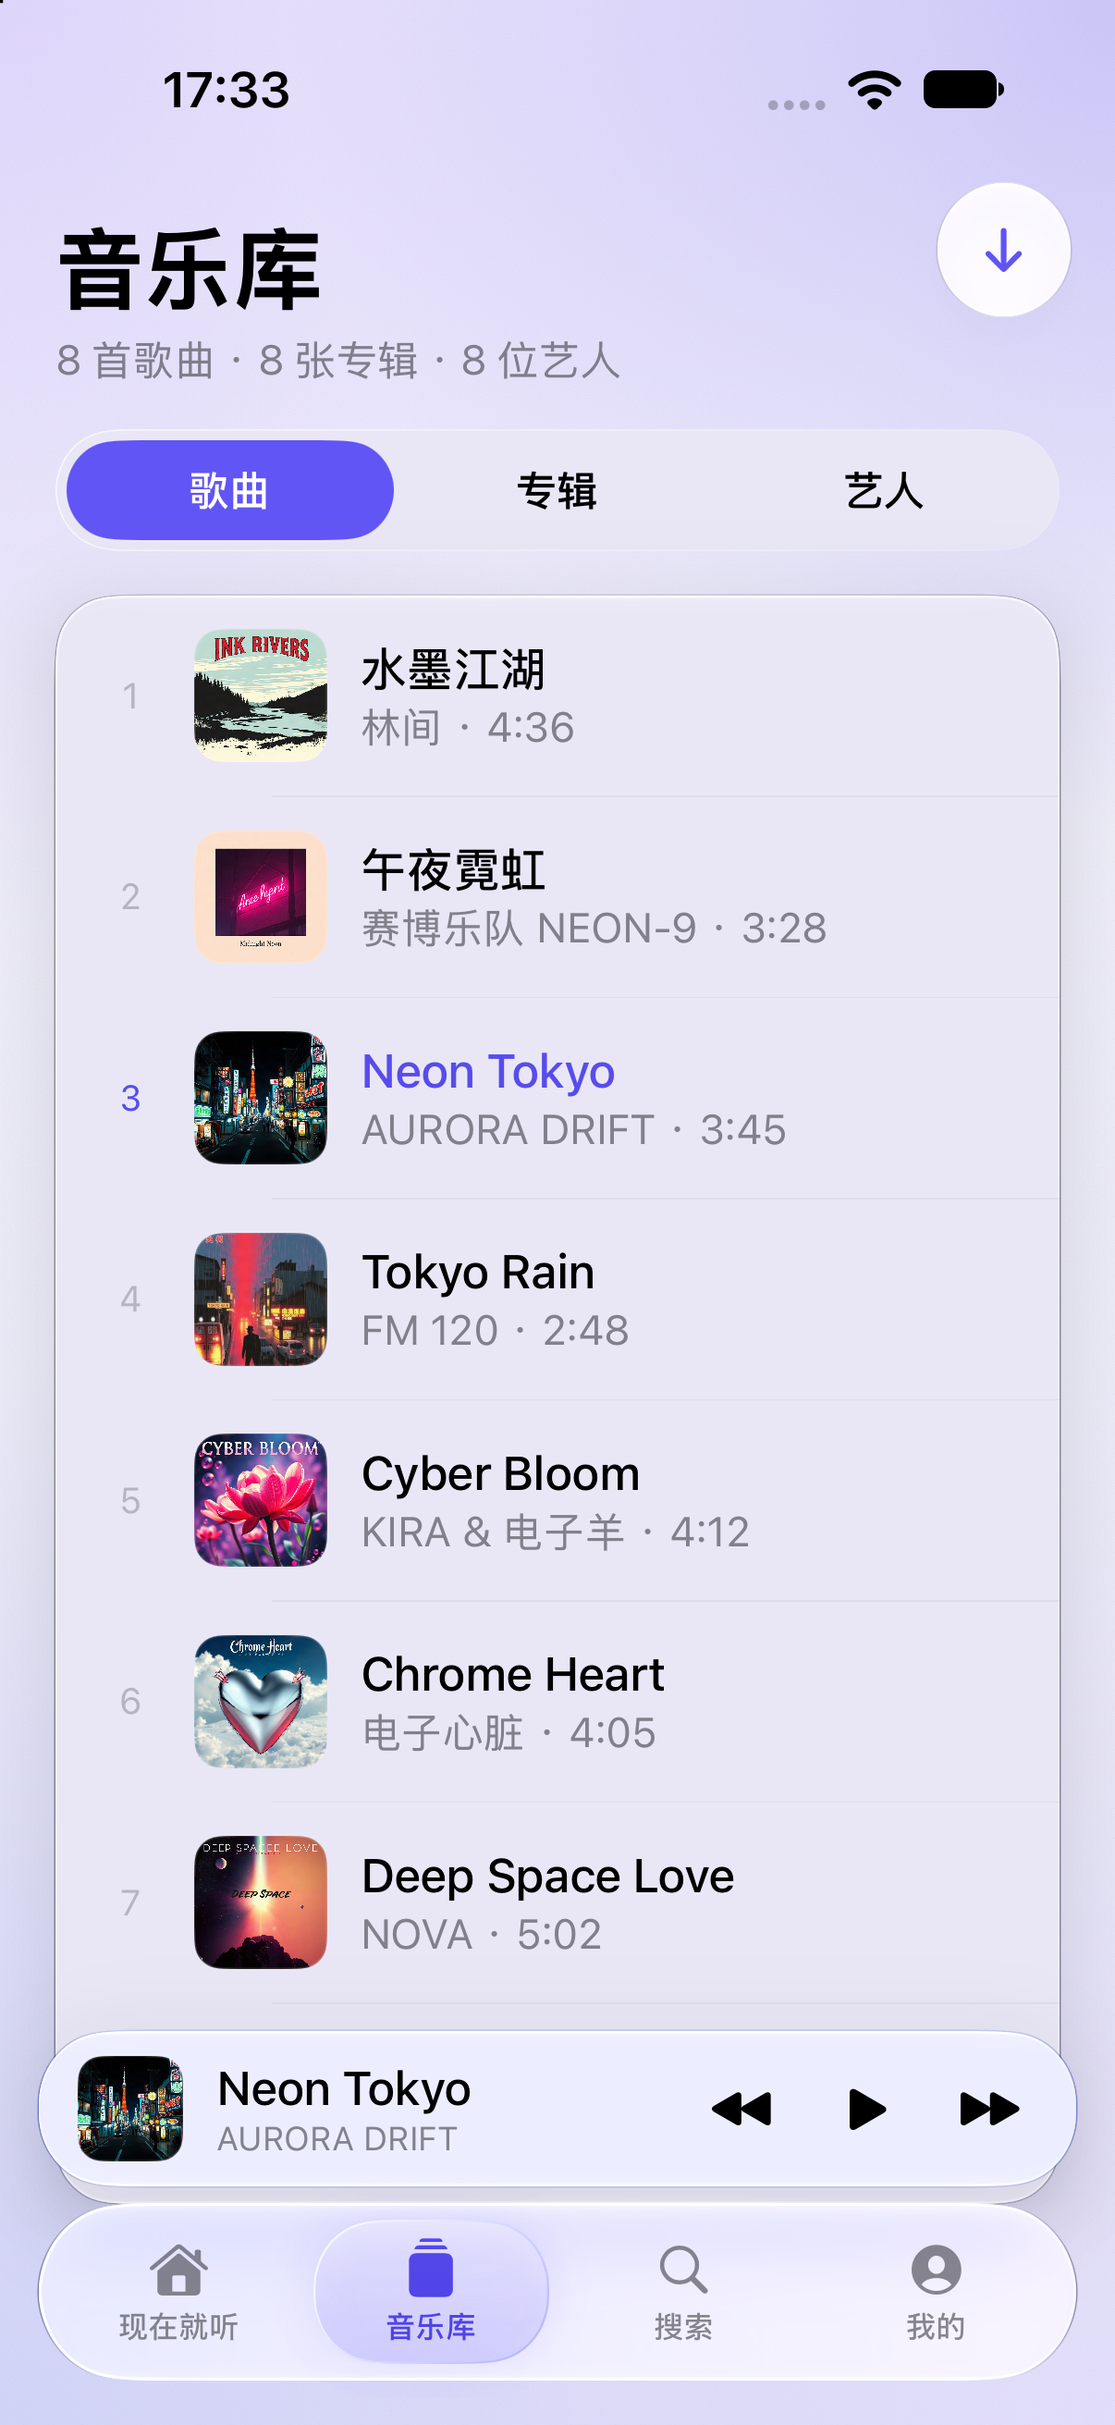
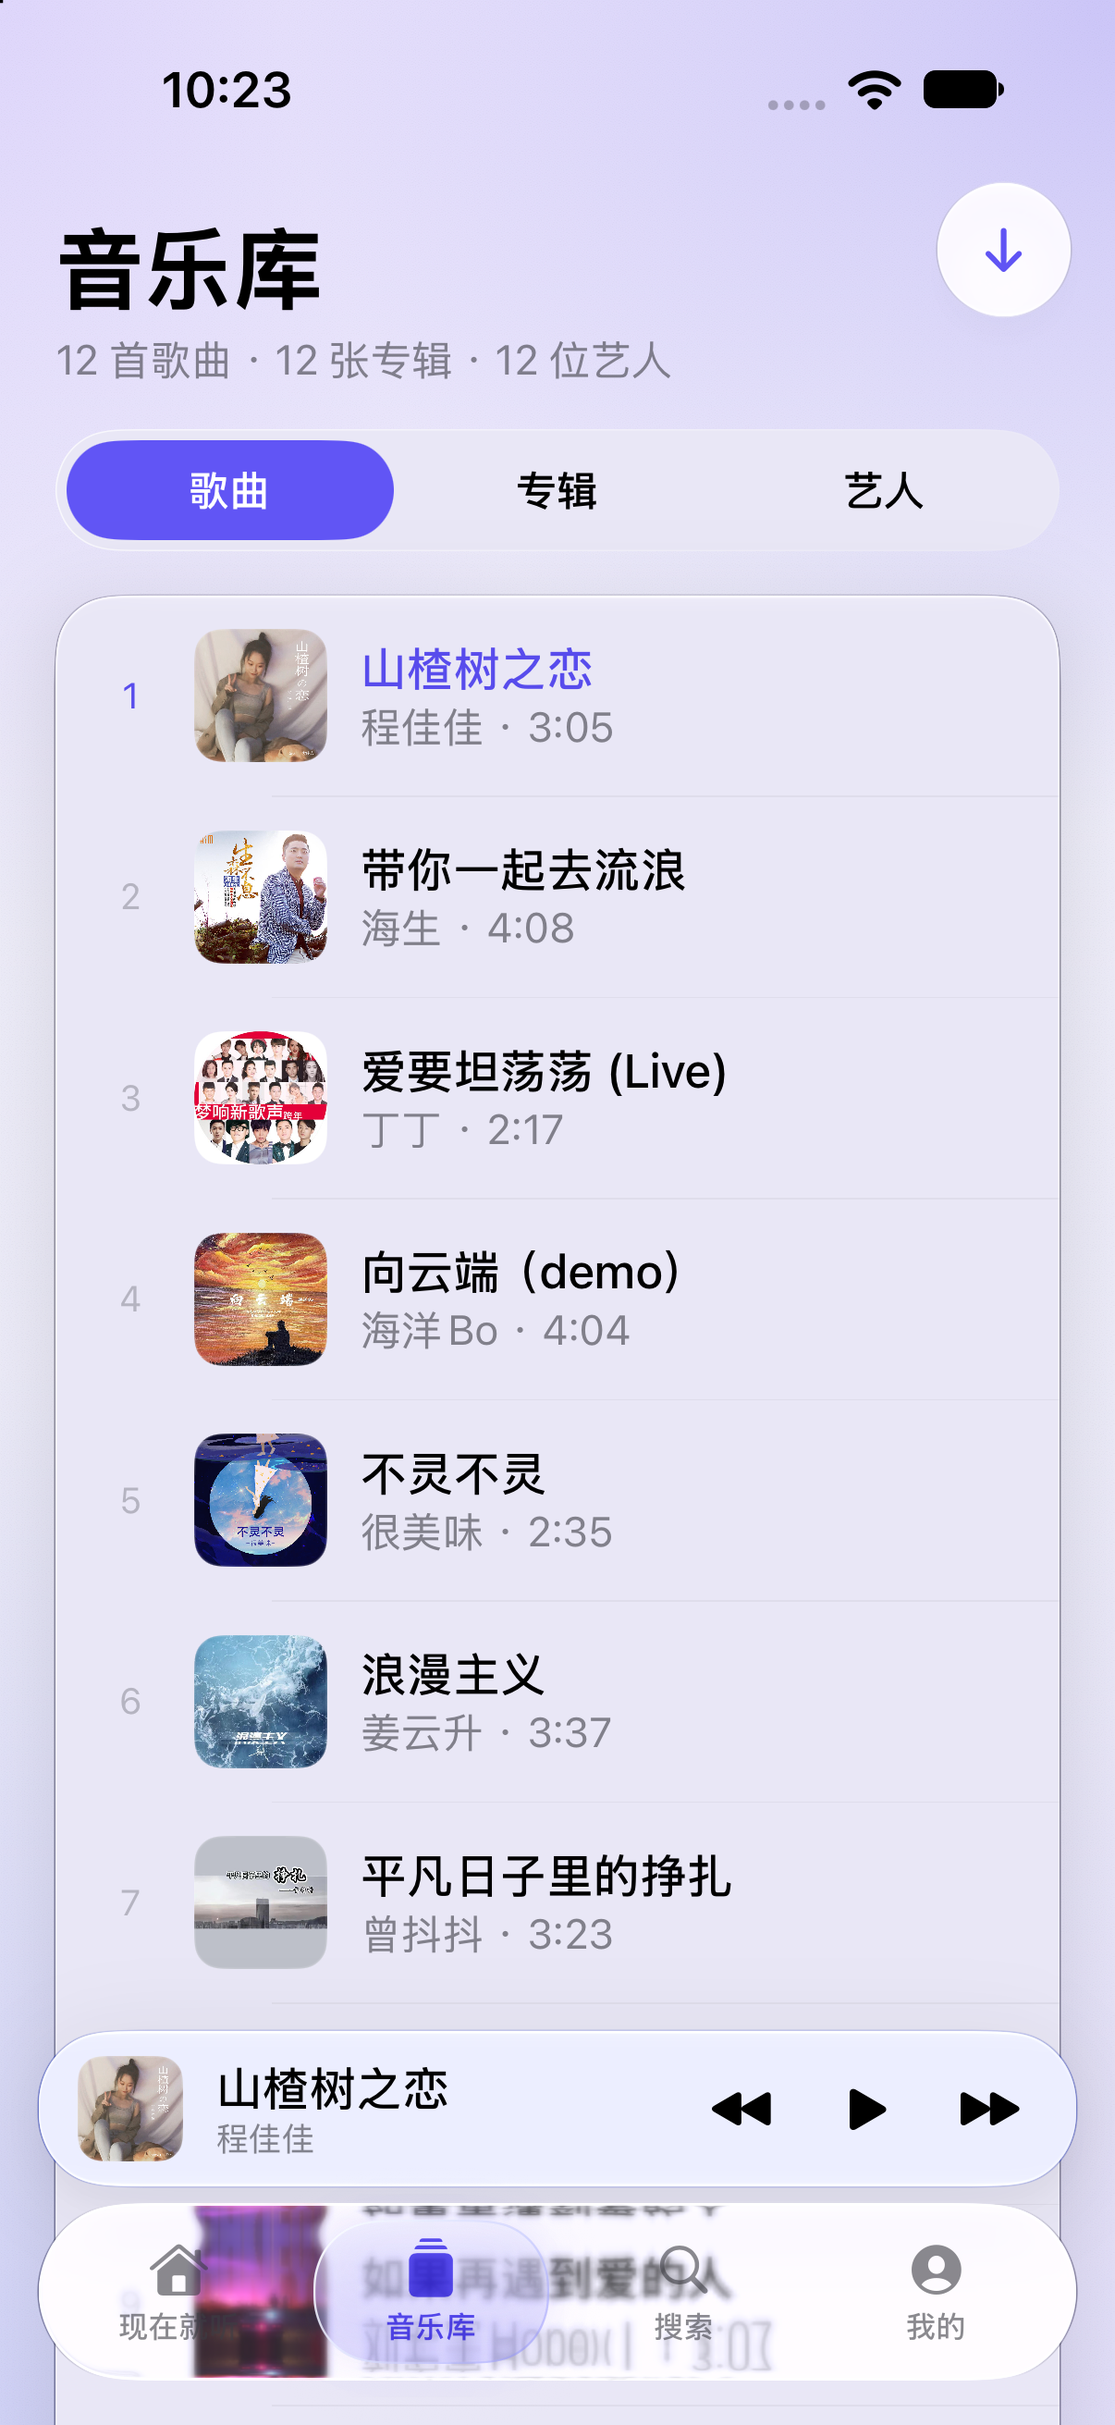
音乐库换成真实曲目：12 首华语歌，流式播放
原来音乐库是 8 首自合成的测试音轨。现在按一份清单（歌名 + 艺人）
从网易云解析成真实曲目，流式播放。

**为什么不是下载音频打包**：这些是版权歌曲，随 App 分发属于侵权，
12 首无损还有几十 MB。清单里只写歌名和艺人，运行时用 /search 解析，
换歌只改字符串。

新增 LibraryStore：
- 启动先用打包音轨顶上（保证离线可用），解析成功后整体替换
- 12 个搜索分 4 条一批 —— 实测并发 12 时上游会 502，失败条数一多
  就退回打包音轨了（第一次跑就踩到了）
- 单条失败重试一次
- 一半以上解析成功才替换，否则宁可继续用打包音轨
- 解析时要求标题对得上，避免拿到翻唱或同名的别的歌
- 封面靠批量 /song/detail 补

其他改动：
- PlayerModel.adoptLibrary：音乐库解析完替换空闲队列，
  但已经播过就不动（否则会打断正在听的歌）
- LibraryView / HomeView / SearchView / 我的页统一从 store 取
- 「已下载」改名为「音乐库」，内容跟着 store 走
- Song.artworkName 改为 var（身份是 id，不影响 Hashable）

验证：音乐库显示 12 首歌曲 / 12 张专辑 / 12 位艺人，封面真实。

diff --git a/GlassMusicPlayer/Models/LibraryStore.swift b/GlassMusicPlayer/Models/LibraryStore.swift
@@ -1,0 +1,138 @@
+import Foundation
+
+/// 音乐库。
+///
+/// 启动时先用打包音轨顶上（保证离线可用），随后按下面这份清单
+/// 从网易云解析出真实曲目替换掉。
+///
+/// **为什么不是下载音频打包进 App**：这些是版权歌曲，随 App 分发属于侵权，
+/// 而且 12 首无损就几十 MB。走流式播放既合规，也不占体积。
+///
+/// 清单里只写「歌名 + 艺人」，运行时用 `/search` 解析成真实曲目 ——
+/// 这样换歌只要改这里的字符串，不用重新找音频文件。
+@Observable
+final class LibraryStore {
+
+    /// 想放进音乐库的歌。顺序即展示顺序。
+    private static let catalog: [(title: String, artist: String)] = [
+        ("山楂树之恋", "程佳佳"),
+        ("带你一起去流浪", "海生"),
+        ("爱要坦荡荡", "丁丁"),
+        ("向云端", "海洋Bo"),
+        ("不灵不灵", "很美味"),
+        ("浪漫主义", "姜云升"),
+        ("平凡日子里的挣扎", "曾抖抖"),
+        ("已经有我啦", "姚小蝶"),
+        ("如果再遇到爱的人", "刘宏宇Honey L"),
+        ("董小姐", ""),
+        ("山高路远", "烟火客"),
+        ("河南浪漫宣言", "Qiaole巧乐"),
+    ]
+
+    /// 当前音乐库。初始是打包音轨，解析成功后整体替换。
+    private(set) var songs: [Song] = MusicLibrary.songs
+    private(set) var isLoading = false
+    /// 是否已用上远程曲库
+    private(set) var isRemote = false
+    private(set) var lastError: String?
+
+    @ObservationIgnored private var attempted = false
+
+    var albums: [Album] {
+        songs.map { song in
+            Album(
+                title: song.album,
+                artist: song.artist,
+                year: song.year,
+                artworkName: song.artworkName,
+                songIDs: [song.id]
+            )
+        }
+    }
+
+    var artists: [Artist] {
+        songs.map { song in
+            Artist(
+                name: song.artist,
+                genre: "精选",
+                artworkName: song.artworkName,
+                monthlyListeners: max(120_000, song.plays / 6)
+            )
+        }
+    }
+
+    func load() async {
+        guard !attempted else { return }
+        attempted = true
+        isLoading = true
+        defer { isLoading = false }
+
+        // 12 个搜索不能一次全打出去 —— 实测并发 12 时上游会返回 502，
+        // 解析失败条数一多就退回打包音轨了。分 4 条一批，稳得多。
+        var resolved: [(Int, Song)] = []
+        let batchSize = 4
+        var start = 0
+
+        while start < Self.catalog.count {
+            let end = min(start + batchSize, Self.catalog.count)
+            let batch = Array(Self.catalog[start..<end])
+            let base = start
+
+            await withTaskGroup(of: (Int, Song?).self) { group in
+                for (offset, item) in batch.enumerated() {
+                    group.addTask { (base + offset, await Self.resolve(item)) }
+                }
+                for await (index, song) in group {
+                    if let song { resolved.append((index, song)) }
+                }
+            }
+            start = end
+        }
+
+        // 一半以上解析成功就替换；否则宁可继续用打包音轨
+        guard resolved.count >= Self.catalog.count / 2 else {
+            lastError = "曲库解析失败（\(resolved.count)/\(Self.catalog.count)），先用打包音轨"
+            return
+        }
+
+        var ordered = resolved.sorted { $0.0 < $1.0 }.map(\.1)
+
+        // `/search` 不给封面地址，批量补一次
+        if let covers = try? await NeteaseAPI.covers(ids: ordered.compactMap(\.neteaseID)) {
+            for index in ordered.indices {
+                guard let id = ordered[index].neteaseID, let cover = covers[id] else { continue }
+                ordered[index].artworkName = cover.absoluteString
+            }
+        }
+
+        songs = ordered
+        isRemote = true
+        lastError = nil
+    }
+
+    /// 按「歌名 + 艺人」搜一首，要求标题对得上 —— 否则可能拿到翻唱或同名的别的歌。
+    /// 失败重试一次：上游偶发 502，重试一次基本能成。
+    private static func resolve(_ item: (title: String, artist: String)) async -> Song? {
+        let keyword = item.artist.isEmpty ? item.title : "\(item.title) \(item.artist)"
+        let normalized = item.title.replacingOccurrences(of: " ", with: "")
+
+        for _ in 0..<2 {
+            guard let tracks = try? await NeteaseAPI.search(keyword, limit: 5), !tracks.isEmpty else {
+                continue
+            }
+            let match = tracks.first {
+                $0.title.replacingOccurrences(of: " ", with: "").contains(normalized)
+            } ?? tracks.first
+            return match?.song
+        }
+        return nil
+    }
+}
+
+private extension Song {
+    /// 远程曲目才有网易云 id，本地打包音轨没有
+    var neteaseID: Int? {
+        if case .netease(let id) = source { return id }
+        return nil
+    }
+}

diff --git a/GlassMusicPlayer/Views/LibraryView.swift b/GlassMusicPlayer/Views/LibraryView.swift
@@ -3,6 +3,7 @@ import SwiftUI
 /// 音乐库 —— 三种视图（歌曲 / 专辑 / 艺人）共用同一个稳固底和同一个悬浮头部。
 struct LibraryView: View {
     @Environment(PlayerModel.self) private var player
+    @Environment(LibraryStore.self) private var library
     @Environment(\.accessibilityReduceMotion) private var reduceMotion
 
     @State private var scrollOffset: CGFloat = 0
@@ -12,7 +13,7 @@ struct LibraryView: View {
     private let segments = ["歌曲", "专辑", "艺人"]
 
     private var sortedSongs: [Song] {
-        MusicLibrary.songs.sorted {
+        library.songs.sorted {
             sortDescending ? $0.plays > $1.plays : $0.title < $1.title
         }
     }
@@ -57,7 +58,7 @@ struct LibraryView: View {
                 .font(LiquidTheme.Typography.hero)
                 .foregroundStyle(LiquidTheme.Palette.label)
 
-            Text("\(MusicLibrary.songs.count) 首歌曲 · \(MusicLibrary.albums.count) 张专辑 · \(MusicLibrary.artists.count) 位艺人")
+            Text("\(library.songs.count) 首歌曲 · \(library.albums.count) 张专辑 · \(library.artists.count) 位艺人")
                 .font(LiquidTheme.Typography.rowMeta)
                 .foregroundStyle(LiquidTheme.Palette.secondary)
         }
@@ -142,9 +143,9 @@ struct LibraryView: View {
             ],
             spacing: LiquidTheme.Spacing.lg
         ) {
-            ForEach(MusicLibrary.albums) { album in
+            ForEach(library.albums) { album in
                 Button {
-                    if let song = MusicLibrary.songs.first(where: { $0.album == album.title }) {
+                    if let song = library.songs.first(where: { $0.album == album.title }) {
                         player.play(song)
                     }
                 } label: {
@@ -173,11 +174,11 @@ struct LibraryView: View {
 
     private var artistList: some View {
         VStack(spacing: 0) {
-            ForEach(Array(MusicLibrary.artists.enumerated()), id: \.element.id) { index, artist in
+            ForEach(Array(library.artists.enumerated()), id: \.element.id) { index, artist in
                 if index > 0 { hairline(leading: 78) }
 
                 Button {
-                    if let song = MusicLibrary.songs.first(where: { $0.artist == artist.name }) {
+                    if let song = library.songs.first(where: { $0.artist == artist.name }) {
                         player.play(song)
                     }
                 } label: {

diff --git a/GlassMusicPlayer/Models/MusicLibrary.swift b/GlassMusicPlayer/Models/MusicLibrary.swift
@@ -30,7 +30,7 @@ struct Song: Identifiable, Hashable {
     let duration: TimeInterval
     let year: Int
     let plays: Int
-    let artworkName: String
+    var artworkName: String
     /// 纯音乐留空，界面会显示「纯音乐 · 暂无歌词」。
     /// 网易云曲目在播放时才拉歌词，所以这里是 `var`。
     var lyrics: [LyricLine]
@@ -407,6 +407,9 @@ enum RepeatMode {
 
 @Observable
 final class PlayerModel {
+    /// 用户是否真正开始过播放 —— 决定音乐库加载完后要不要替换队列
+    private(set) var hasStartedPlayback = false
+
     var queue: [Song] = MusicLibrary.songs
     var currentIndex: Int = 0
     var isPlaying: Bool = false
@@ -486,8 +489,18 @@ final class PlayerModel {
         }
     }
 
-    /// 清空队列，只留下正在播的这一首。
+    /// 音乐库解析完就换掉空闲队列。
     ///
+    /// 启动时队列里是打包音轨（保证离线可用），但用户还没播过 ——
+    /// 这时候换成真实曲库更合理。已经播过就别动，否则正在听的歌会被打断。
+    func adoptLibrary(_ songs: [Song]) {
+        guard !hasStartedPlayback, !songs.isEmpty else { return }
+        queue = songs
+        currentIndex = 0
+        loadCurrent(autoplay: false)
+    }
+
+    /// 清空队列，只留下正在播的这一首。    ///
     /// 语义和 Apple Music 的 Clear 一致：**不是把当前歌也停掉**，
     /// 而是把"接下来要播的"清干净。真要停止播放是暂停按钮的事。
     func clearUpNext() {
@@ -604,6 +617,8 @@ final class PlayerModel {
     private func loadCurrent(autoplay: Bool) {
         progress = 0
         isPlaying = autoplay
+        // 一旦真的开始播，音乐库加载完就不该再换队列了
+        if autoplay { hasStartedPlayback = true }
 
         // 网易云：先异步取播放地址，取到再装载
         if case .netease(let id) = current.source {

diff --git a/GlassMusicPlayer/Views/ProfileDetailSheet.swift b/GlassMusicPlayer/Views/ProfileDetailSheet.swift
@@ -52,7 +52,7 @@ enum ProfileDetail: String, Identifiable {
     var title: String {
         switch self {
         case .quality: return "音质与下载"
-        case .downloads: return "已下载"
+        case .downloads: return "音乐库"
         case .about: return "关于 BhandsMusic"
         case .account: return "账号与安全"
         case .server: return "服务器"
@@ -66,6 +66,7 @@ struct ProfileDetailSheet: View {
 
     @Environment(\.dismiss) private var dismiss
     @Environment(NeteaseSession.self) private var session
+    @Environment(LibraryStore.self) private var library
     @State private var quality = AudioQuality.current
     @State private var serverURL = ServerSettings.baseURLString
     @State private var apiKey = ServerSettings.apiKey
@@ -289,13 +290,13 @@ struct ProfileDetailSheet: View {
 
     private var downloadsContent: some View {
         VStack(alignment: .leading, spacing: LiquidTheme.Spacing.sm) {
-            Text("打包在 App 里的音轨，离线可播。")
+            Text("当前音乐库的曲目。")
                 .font(LiquidTheme.Typography.caption)
                 .foregroundStyle(LiquidTheme.Palette.secondary)
                 .padding(.horizontal, LiquidTheme.Spacing.screenH)
 
             VStack(spacing: 0) {
-                ForEach(Array(MusicLibrary.songs.enumerated()), id: \.element.id) { index, song in
+                ForEach(Array(library.songs.enumerated()), id: \.element.id) { index, song in
                     if index > 0 { divider }
 
                     HStack(spacing: LiquidTheme.Spacing.sm) {

diff --git a/GlassMusicPlayer/Views/HomeView.swift b/GlassMusicPlayer/Views/HomeView.swift
@@ -6,6 +6,7 @@ import SwiftUI
 /// → 悬浮玻璃头部覆盖其上。滚动时大标题滚走、头部标题淡入。
 struct HomeView: View {
     @Environment(PlayerModel.self) private var player
+    @Environment(LibraryStore.self) private var library
     @Environment(PlaylistStore.self) private var playlists
     @Environment(NeteaseSession.self) private var session
     @Environment(\.accessibilityReduceMotion) private var reduceMotion
@@ -84,7 +85,7 @@ struct HomeView: View {
 
             // 日期不再单独占一行 —— 一行 overline 会把大标题往下顶 18pt，
             // 顶部就显得空。并进副标题，信息不丢，版面收紧。
-            Text("\(Self.dateText) · 为你挑选的 \(MusicLibrary.songs.count) 首单曲，共 \(totalHours) 小时")
+            Text("\(Self.dateText) · 为你挑选的 \(library.songs.count) 首单曲，共 \(totalHours) 小时")
                 .font(LiquidTheme.Typography.rowMeta)
                 .foregroundStyle(LiquidTheme.Palette.secondary)
                 .lineLimit(1)
@@ -94,7 +95,7 @@ struct HomeView: View {
     }
 
     private var totalHours: Int {
-        let seconds = MusicLibrary.songs.reduce(0) { $0 + $1.duration }
+        let seconds = library.songs.reduce(0) { $0 + $1.duration }
         return max(1, Int(seconds / 3600))
     }
 

diff --git a/GlassMusicPlayer/Views/RootView.swift b/GlassMusicPlayer/Views/RootView.swift
@@ -11,6 +11,8 @@ struct RootView: View {
     @State private var player = PlayerModel()
     /// 歌单的远程曲库（网易云）。本地只有 8 首，撑不起 30 首的歌单。
     @State private var playlists = PlaylistStore()
+    /// 音乐库：先用打包音轨，随后按清单从网易云解析真实曲目
+    @State private var library = LibraryStore()
     @State private var selection = DebugLaunch.initialTab
     @State private var showsNowPlaying = DebugLaunch.opensNowPlaying
 
@@ -52,6 +54,7 @@ struct RootView: View {
         }
         .environment(player)
         .environment(playlists)
+        .environment(library)
         .environment(NeteaseSession.shared)
         // 内容与 chrome 一起延伸到屏幕底部。
         // iOS 26 的浮动 Tab Bar 就贴在这个位置：下方只留 ~16pt 给 Home Indicator，
@@ -72,6 +75,8 @@ struct RootView: View {
             }
             // 歌单的真实曲库（网易云）。失败会静默退回本地选曲。
             await playlists.loadAll()
+            await library.load()
+            player.adoptLibrary(library.songs)
             // 有本地 cookie 的话顺手刷一次账号信息（cookie 失效会自动清掉）
             await NeteaseSession.shared.refreshAccount()
         }

diff --git a/GlassMusicPlayer/Views/ProfileView.swift b/GlassMusicPlayer/Views/ProfileView.swift
@@ -4,6 +4,7 @@ import SwiftUI
 struct ProfileView: View {
     @Environment(PlayerModel.self) private var player
     @Environment(PlaylistStore.self) private var playlists
+    @Environment(LibraryStore.self) private var library
     @Environment(NeteaseSession.self) private var session
     @Environment(\.accessibilityReduceMotion) private var reduceMotion
 
@@ -279,8 +280,8 @@ struct ProfileView: View {
                 navigationRow(
                     icon: "arrow.down.circle.fill",
                     tint: Color(hex: 0x0984E3),
-                    title: "已下载",
-                    value: "\(MusicLibrary.songs.count) 首"
+                    title: "音乐库",
+                    value: "\(library.songs.count) 首"
                 ) {
                     detail = .downloads
                 }

diff --git a/GlassMusicPlayer/Views/SearchView.swift b/GlassMusicPlayer/Views/SearchView.swift
@@ -8,6 +8,7 @@ struct SearchView: View {
     var isModal: Bool = true
 
     @Environment(PlayerModel.self) private var player
+    @Environment(LibraryStore.self) private var library
     @Environment(\.dismiss) private var dismiss
     @Environment(\.accessibilityReduceMotion) private var reduceMotion
 
@@ -28,7 +29,7 @@ struct SearchView: View {
     private var results: [Song] {
         let keyword = query.trimmingCharacters(in: .whitespaces)
         guard !keyword.isEmpty else { return [] }
-        return MusicLibrary.songs.filter {
+        return library.songs.filter {
             $0.title.localizedCaseInsensitiveContains(keyword)
             || $0.artist.localizedCaseInsensitiveContains(keyword)
             || $0.album.localizedCaseInsensitiveContains(keyword)
